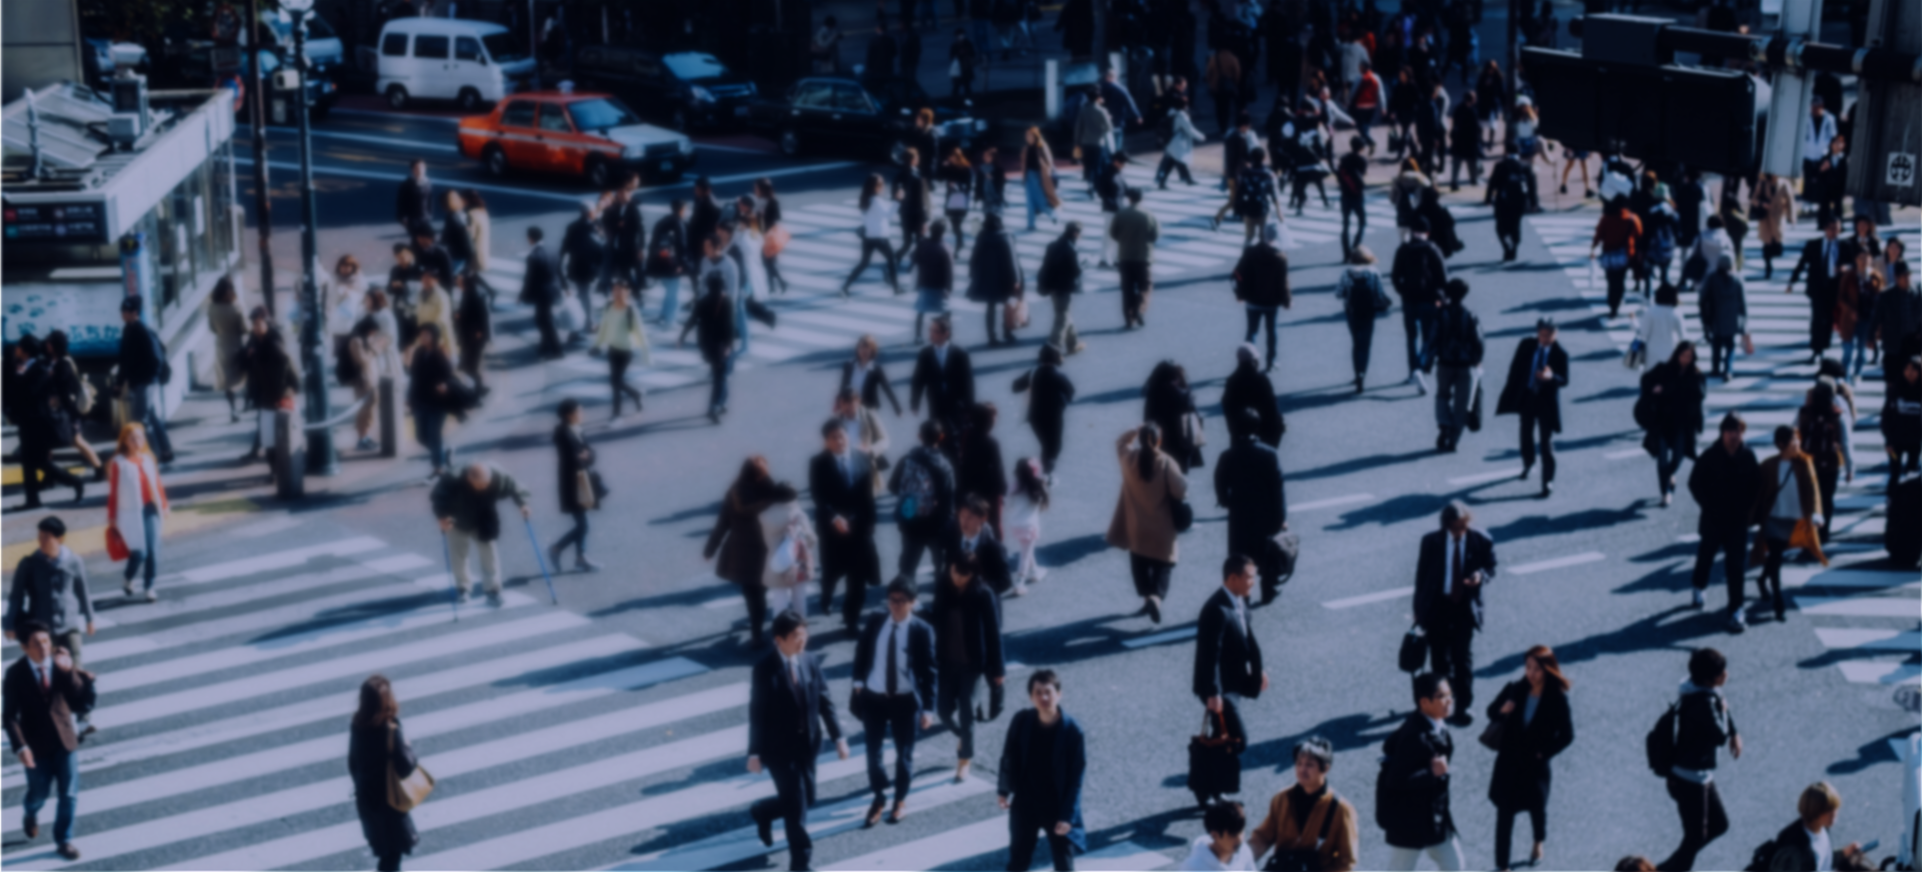
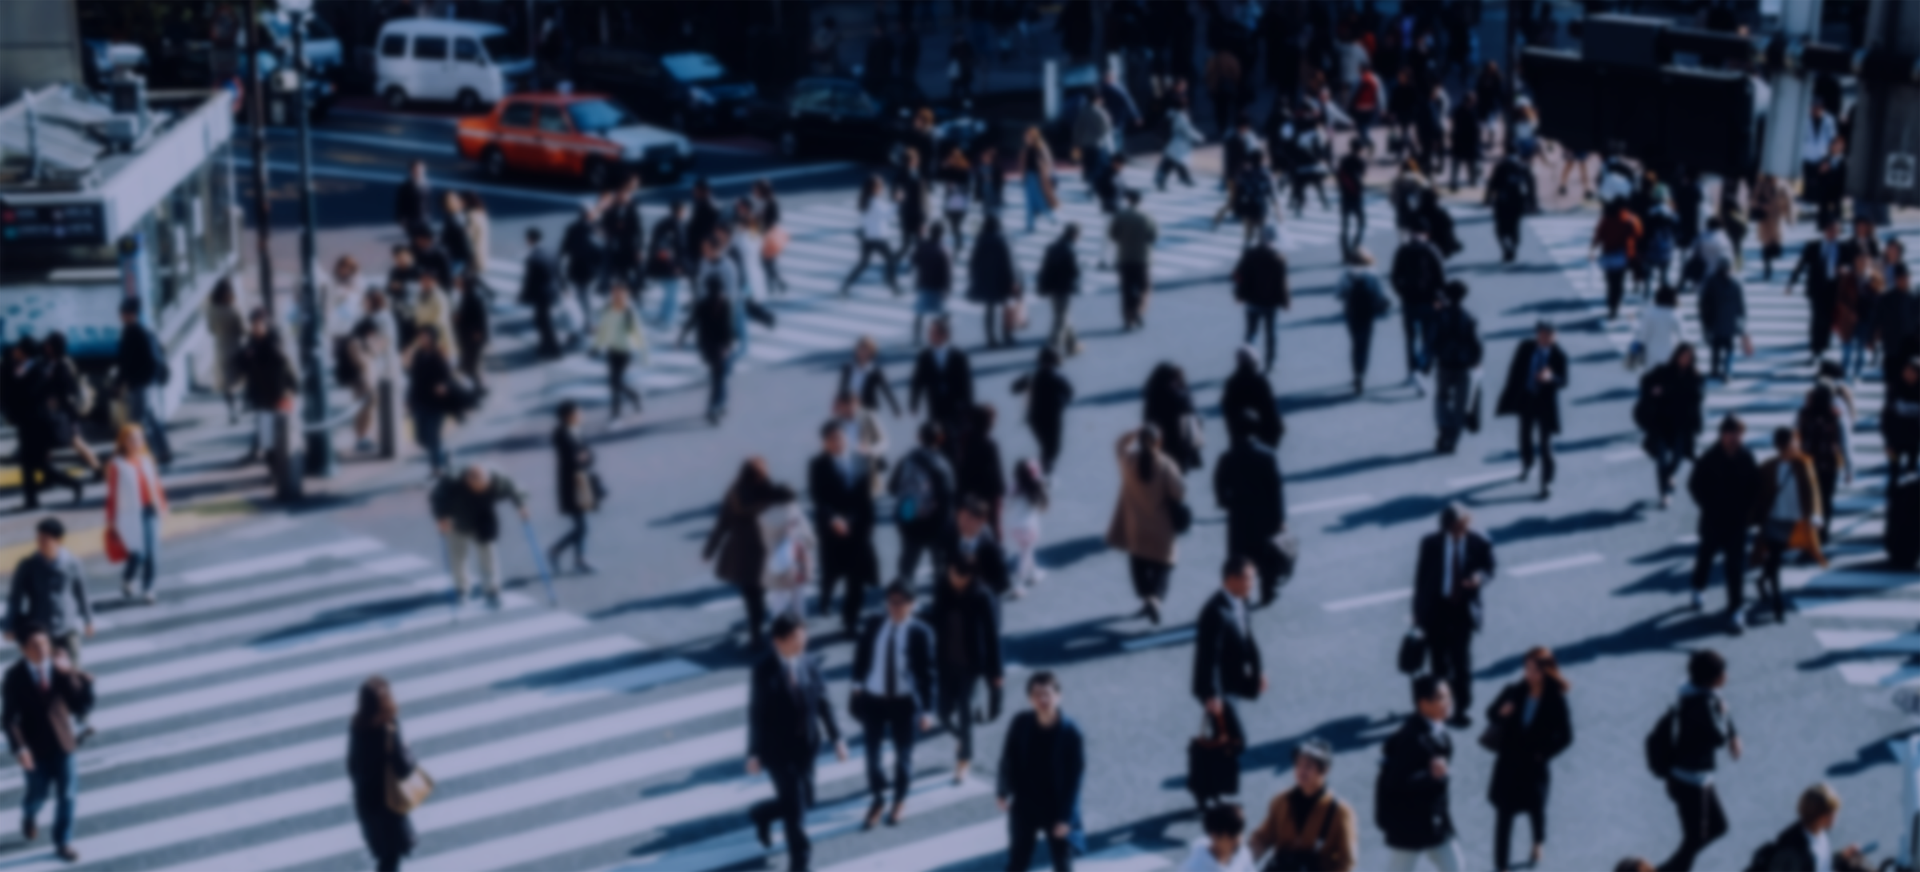
temp 首页banner布局修改，和部分图片替换，新增文章增加多选功能

diff --git a/client-side/src/app/modules/admin/pages/news-list/create-article/create-article.component.html b/client-side/src/app/modules/admin/pages/news-list/create-article/create-article.component.html
@@ -26,7 +26,7 @@
     <nz-form-item>
       <nz-form-label nzRequired nzFor="priority">文章分类</nz-form-label>
       <nz-form-control nzErrorTip="请选择文章重要级别">
-        <nz-select id="type" formControlName="type" nzPlaceHolder="请选择文章重要级别" ngModel>
+        <nz-select id="type" formControlName="type" nzPlaceHolder="请选择文章重要级别" nzMode="multiple">
           <nz-option *ngFor="let option of typeOptions" [nzLabel]="option.label" [nzValue]="option.value"></nz-option>
         </nz-select>
       </nz-form-control>

diff --git a/client-side/src/app/modules/pc/pages/home/home-carousel/home-carousel.component.scss b/client-side/src/app/modules/pc/pages/home/home-carousel/home-carousel.component.scss
@@ -33,15 +33,11 @@ $carousel-height: 620px;
     }
 
     &.item-one {
-      background-image:  $pc-banner-1-bg , $pc-banner-1;
-      background-position: center, center;
-      background-size: 100%, cover;
+      background-image:  $pc-banner-1-bg;
+      background-size: cover;
       .slogan {
-        position: absolute;
-        top: 50%;
-        left: 50%;
-        transform: translate(-50%, -50%);
-        width: 1000px;
+        display: block;
+        margin: 190px 0 0 60px;
       }
     }
     &.item-two {

diff --git a/client-side/src/app/modules/pc/pages/home/home-carousel/home-carousel.component.html b/client-side/src/app/modules/pc/pages/home/home-carousel/home-carousel.component.html
@@ -1,6 +1,13 @@
 <div class="home-carousel">
   <nz-carousel #nzCarouselComponent nzEffect="scrollx" [nzAutoPlay]="true">
     <div nz-carousel-content class="carousel-item item-one">
+      <pc-core-container>
+        <div class="wrapper">
+          <div class="content-group">
+            <img [src]="getImage('pc-banner-1-slogan')" class="slogan" alt="">
+          </div>
+        </div>
+      </pc-core-container>
     </div>
     <div nz-carousel-content class="carousel-item item-two">
       <pc-core-container>

diff --git a/client-side/src/app/modules/admin/pages/news-list/create-article/create-article.service.ts b/client-side/src/app/modules/admin/pages/news-list/create-article/create-article.service.ts
@@ -26,7 +26,7 @@ export class CreateArticleService {
 
   //  获取文章数据
   getArticleContent(id): Observable<IHttpResponse<IArticleDetailResponse>> {
-    return this.http.get(`/article/detail/${ id }`) as Observable<IHttpResponse<IArticleDetailResponse>>
+    return this.http.get(`/article/admin/detail/${ id }`) as Observable<IHttpResponse<IArticleDetailResponse>>
   }
 
   // 保存编辑文章

diff --git a/client-side/src/app/modules/admin/pages/news-list/news-list.service.ts b/client-side/src/app/modules/admin/pages/news-list/news-list.service.ts
@@ -19,7 +19,7 @@ export class NewsLIstService {
 
   // 获取文章列表
   getNewsList(): Observable<IHttpResponse<IArticleListResponse>> {
-    return this.http.get('/article/list') as Observable<IHttpResponse<IArticleListResponse>>
+    return this.http.get('/article/admin/list') as Observable<IHttpResponse<IArticleListResponse>>
   }
 
   // 上线或者下线
